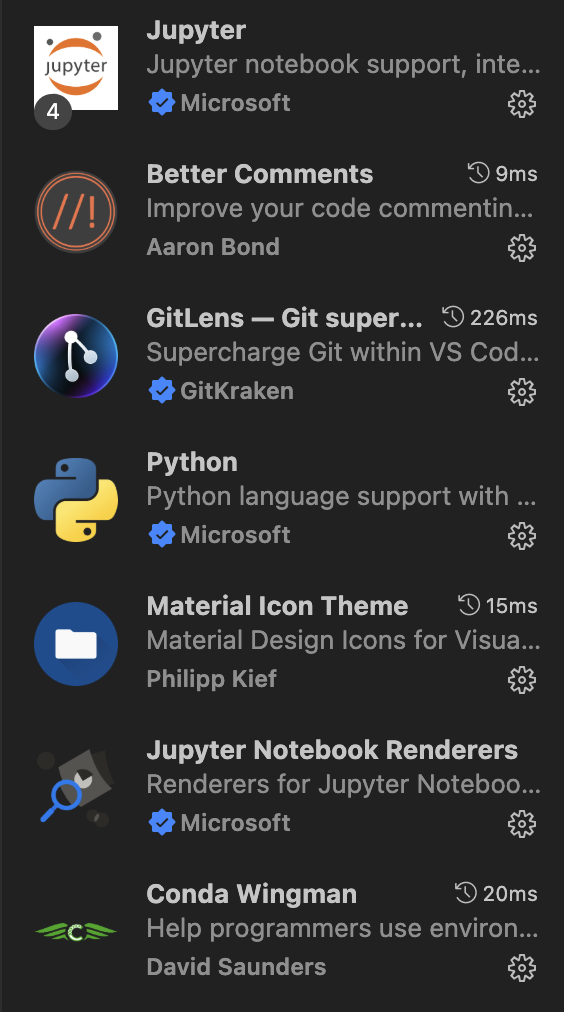
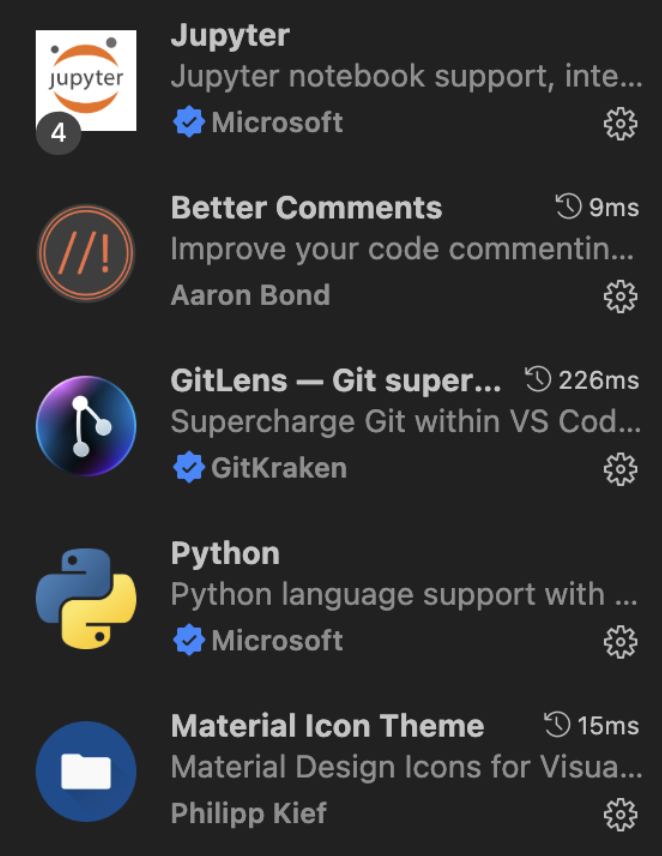
Conda environment creation rewritten. Fixed anchors

Changed region(s): [[0.2411, 0.0, 0.9645, 0.972], [0.0301, 0.4252, 0.211, 0.972], [0.0301, 0.0, 0.211, 0.3949]]

diff --git a/README.md b/README.md
@@ -22,7 +22,7 @@ To achieve the goals of the **Standard Operating Procedures (SOP)**, the followi
 - **GitHub** — collaborative development platform for sharing code, reviewing changes, managing issues, and organizing project workflows.
 - **Anaconda** — environment management system that simplifies package installation and ensures reproducible setups across different operating systems.
 - **Visual Studio Code (VSCode)** — code editor used as the primary development environment, offering integrated support for Git, Jupyter notebooks, and Python environments.
-- **Spyder** — user-friendly code editor recommended for users who prefer a simpler interface for writing, debugging, and running Python scripts.
+<!-- - **Spyder** — user-friendly code editor recommended for users who prefer a simpler interface for writing, debugging, and running Python scripts. -->
 
 # Onboarding guide
 
@@ -61,13 +61,13 @@ Download the latest Python 3.x installer (e.g., *Python 3.11*) for your operatin
     
     Then type:
     
-    ```sql
+    ```
     python --version
     ```
     
     or
     
-    ```sql
+    ```
     python3 --version
     ```
     
@@ -132,7 +132,7 @@ Open the tab “Extensions” in the sidebar.
     ![Extensions tab](img/extensions-tab.png)
     
     Find and install following extensions:
-    ”Python”, “Jupyter”, “Jupyter Notebook Renderers”, “Better Comments”, “GitLens”, “Conda Wingman”, and “Material Icon Theme”.
+    ”Python”, “Jupyter”, “Better Comments”, “GitLens”, and “Material Icon Theme”.
 
     ![Recommended Extensions](img/recommended-extensions.png)
 
@@ -194,19 +194,15 @@ Open `params/000_default.yml` file. It contains experiment-specific parameters t
 > *Packages* are essential instruments that greatly extend the functionality of the scripts. NumPy, pandas, and matplotlib are the most commonly used packages that extend python script with an ability to analyze data, plot graphs, and perform complex computations with ease.
 > 
 > However, different projects may require different package versions, which can cause conflicts and errors.
-> 
 > To avoid this, we use an *environment* — an isolated workspace that allows us to install and manage specific package versions independently for each project, ensuring stability and reproducibility.
 > 
 > In the lab we use Anaconda as both, package manager and environment manager.
 
-<!-- TODO: redo environment management with conda navigator, not with vscode extensions -->
-<!-- Open `env/environment.yml` file. It stores all the needed packages and their versions.
+Open **Anaconda navigator** application. Click `Environments` tab on the left sidebar. 
 
-Conda Wingman extension will display a button “Build Env from YAML.”
+Add conda-forge channgel to the list of channels if it is not already there: click on the `Channels` button at the top right, then `Add`, type `conda-forge`, and click `Update channels`.
 
-![VSCode Screenshot](https://github.com/DJSaunders1997/Conda-Wingman/raw/HEAD/images/VSCode-Screenshot.png)
-
-Click it to create the environment with all the required packages. -->
+Then click `Import` button at the bottom of the environments list. Choose the `env/environment.yml` file from the cloned repository. Name the environment appropriately (for example, the same as the repository name) and click `Import`. This will create a new environment with all the required packages installed.
 
 ## 4. Run the code
 
@@ -214,13 +210,13 @@ As for now we are using Python scripts and Jupyter notebooks to perform needed o
 
 ### 4.1. Python script
 
-Python extension finds all the available environments and displays them in the sidebar. Click `Python > Environment Managers > Conda > Named`. Click the Tick ("Set As Project Environment") next to the name of [just created environment](#2-setup-the-environment).
+Python extension finds all the available environments and displays them in the sidebar. Click `Python > Environment Managers > Conda > Named`. Click the Tick ("Set As Project Environment") next to the name of [just created environment](#3-setup-the-environment).
 
 ![Python environment](img/activate-env.jpg)
 
 In order to run Python script open the file using VSCode Explorer — you will need either a single file from the `scripts/` folder or `src/[name]/main.py`
 
-Click the "Play" button in the top-right corner to run the script. 
+Click the `Play` button in the top-right corner to run the script.
 
 ![Run Python File](img/run-python.jpg)
 
@@ -228,15 +224,15 @@ Click the "Play" button in the top-right corner to run the script.
 
 In order to run Jupyter Notebook open the needed .ipynb file using VSCode Explorer — it will be located in the `notebooks/` folder.
 
-Click "Select Kernel" in the top right corner. 
+Click `Select Kernel` in the top right corner.
 
 ![Select Kernel](img/select-kernel.jpg)
 
-Choose "Python Environments..." and then the environment that you [just created](#2-setup-the-environment).
+Choose `Python Environments...` and then the environment that you [just created](#3-setup-the-environment).
 
 ![Choose environment](img/choose-env.jpg)
 
-Now you can execute all the cells by clicking "Run All" all just one certain cell by clicking "Execute Cell" from the left of the cell.
+Now you can execute all the cells by clicking `Run All` or just one certain cell by clicking `Execute Cell` from the left of the cell.
 
 ![Run Python File](img/run-ipynb.jpg)
 
@@ -244,17 +240,59 @@ Now you can execute all the cells by clicking "Run All" all just one certain cel
 
 If you encounter any issues during the setup or execution of the scripts/notebooks, refer to the troubleshooting section below for common problems and their solutions.
 
-### Python extension is not displayed in the sidebar *(common, temporary)*
+### ⚠ Python extension is not displayed in the sidebar *(common, TEMPORARY)*
 
-<!-- TODO -->
+![Python extension error](img/python-ext-temp-error.jpg)
 
-### Git signup errors *(common)*
+Official documentation states that due to the maintenance issues, Python extension may not appear in the sidebar for some users. In order to fix this, try the following steps:
 
-<!-- TODO -->
+1. Open the command palette (`Ctrl + Shift + P` / `⌘ + Shift + P`) and type `Preferences: Open User Settings`.
 
-### Git Bash is not recognized *(Windows-specific)*
+2. In the search bar, type `python.useEnvironmentsExtension`.
 
-<!-- TODO -->
+3. Ensure that the checkbox for `Python: Use Environments Extension` is checked.
+
+    ![Python environments checkbox](img/python-ext-checkbox.jpg)
+
+4. Restart VSCode.
+
+### Environment not found error *(common)*
+
+If you cannot find the created conda environment in the list of available environments in VSCode Python extension, try the following steps:
+
+1. Reload the list of environments by clicking the refresh button in the Python extension sidebar.
+
+2. Ensure that the conda environment is activated in Anaconda Navigator and that all required packages are installed.
+
+3. If the environment still does not appear, try restarting VSCode.
+
+### ⚠ Git signup errors *(common)*
+
+![Git signup error](img/git-signup-error.jpg)
+
+If you encounter a Git signup error, try the following steps:
+
+1. Run the following command in Git Bash (Windows) or in the terminal:
+
+    ```bash
+    git config --global user.name
+    git config --global user.email
+    ```
+
+    Ensure that your GitHub username and email are correctly set.
+
+2. If the information is incorrect or missing, set it using the following commands:
+
+    ```bash
+    git config --global user.name "Your GitHub Username"
+    git config --global user.email "Your GitHub Email"
+    ``` 
+
+3. Restart VSCode and try signing in to GitHub again.
+
+4. If the issue persists, refer to the official VSCode documentation for further assistance: [VSCode GitHub Authentication Issues](https://code.visualstudio.com/docs/editor/github#_troubleshooting-github-authentication-issues).
+
+<!-- ### ⚠ Git Bash is not recognized *(Windows-specific)* -->
 
 # Maintenance guide
 
@@ -298,7 +336,7 @@ Be sure to create a new branch for your changes, commit them with clear and desc
 
 > ⚠ **Do not edit Jupyter notebooks manually!**
 >
-> When working with Jupyter notebooks, it is important to keep in mind that the notebook files (`.ipynb`) are structured as JSON. This means that when you make changes to a notebook, you should **avoid making manual edits to the JSON structure** *unless you are familiar with it*. Instead, **use the VSCode Jupyter Extension** (or Jupyter interface) to make changes, as this will ensure that the notebook remains valid and functional. How to run Jupyter notebooks is described in the **[3.2. Jupyter Notebook](#32-jupyter-notebook)** section.
+> When working with Jupyter notebooks, it is important to keep in mind that the notebook files (`.ipynb`) are structured as JSON. This means that when you make changes to a notebook, you should **avoid making manual edits to the JSON structure** *unless you are familiar with it*. Instead, **use the VSCode Jupyter Extension** (or Jupyter interface) to make changes, as this will ensure that the notebook remains valid and functional. How to run Jupyter notebooks is described in the **[Jupyter Notebook](#42-jupyter-notebook)** section.
 
 > 🧹 **Clear output cells before committing**
 >
@@ -308,7 +346,7 @@ Be sure to create a new branch for your changes, commit them with clear and desc
 
 > 🛠 **Render notebooks**
 >
-> For better visual representation of the notebook changes on GitHub (and other platforms), sometimes it can be needed to **render** the notebooks before committing (especially **before publication**). You can use the **Jupyter Notebook Renderers** extension in VSCode (that was already installed in the **[Configuration of VSCode Extensions](#06-configuration-of-vscode-terminal-and-extensions)** section) to achieve this.
+> For better visual representation of the notebook changes on GitHub (and other platforms), sometimes it can be needed to **render** the notebooks before committing (especially **before publication**). You can use the **Jupyter Notebook Renderers** extension in VSCode (that was already installed in the **[Configuration of VSCode Extensions](#07-configuration-of-vscode-extensions-and-terminal)** section) to achieve this.
 > 
 > This will generate a static HTML/PDF version of the notebook, which can be easily viewed in browsers/viewers without the need for a Jupyter environment.
 >
@@ -316,8 +354,40 @@ Be sure to create a new branch for your changes, commit them with clear and desc
 
 # Project creation guide
 
-To do...
+This section is intended to help lab members create new repository following the established SOP protocols. It covers best practices for setting up repositories, configuring environments, and organizing project files.
+
+Creation of a new repository is reasonable when starting a new project or analysis that requires its own dedicated codebase and environment. Ideally, each distinct logical unit of work should have its own repository to ensure clarity, maintainability, and reproducibility.
+
+## 1. Create a new repository from the template
+
+When starting a new project, it is essential to use the established template repository as a base. This ensures that all projects follow a consistent structure and adhere to the lab's SOP protocols.
+
+To do so, go to the [template repository](https://github.com/miletovaa/metabolomics_lab_template) and create a new repository based on it by clicking the `Use this template > Create a new repository` button.
+
+![Use this template](img/use-this-template.png)
  
+Fill in the repository name, description.
+
+## 2. Clone the repository
+
+Follow the instructions in the **[Clone the repository](#1-clone-the-repository)** section to clone the newly created repository to your local machine.
+
+## 3. Align template with your goals
+
+Given template is a general maximalistic structure, framework, with default configuration files, example scripts and placeholders to cover a wide range of potential use cases and make it instantly usable for various projects.
+
+After cloning the repository, review the template structure and files to ensure they align with the specific goals and requirements of your project. Make any necessary adjustments to the configuration files, environment settings, and project structure to suit your needs.
+
+The repository may *(and most probably will)* contain files and folders that are not relevant to your specific needs. Remove any unnecessary files and folders to keep the repository clean and focused on your project.
+
+## 4. Setup the environment
+
+Follow the instructions in the **[Setup the environment](#3-setup-the-environment)** section to create and configure the conda environment for your project.
+
+## 5. Maintain the repository
+
+Since the new repository is already having required structure and configuration files, you can directly proceed to the **[Maintenance guide](#maintenance-guide)** section to learn how to update and maintain the default project setup.
+
 # Additional
 
 ## How does Git work?
